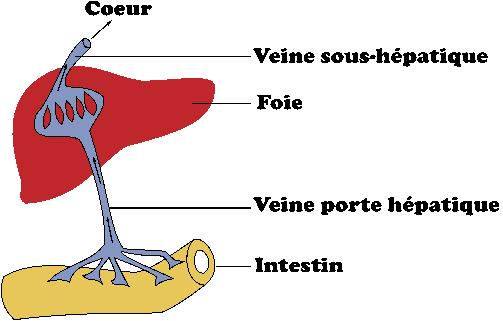
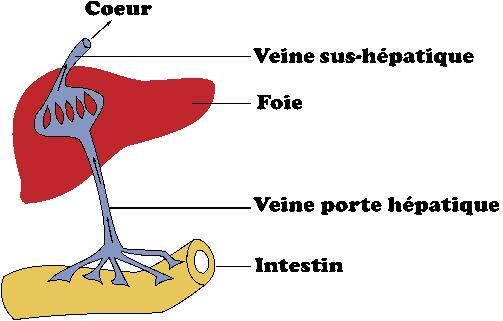
update content

Changed region(s): [[0.6262, 0.1558, 0.9841, 0.2181]]

diff --git a/htmls/courses/level2/unit3/chapter1.html b/htmls/courses/level2/unit3/chapter1.html
@@ -183,14 +183,14 @@
 </p>
 <ul>
   <li>
-    On observe qu’après une période de jeune, la glycémie du sang entrant au
+    On observe qu’après une période de jeûne, la glycémie du sang entrant au
     foie est inférieure à celle du sang sortant du foie. Alors qu’après un
     repas, la glycémie du sang entrant est supérieure à celle du sang sortant du
     foie.
   </li>
   <li>
     Ces résultats montrent que le foie apporte du glucose au sang lorsque la
-    glycémie baisse (cas du jeun), et il le met en réserve après un repas.
+    glycémie baisse (cas du jeûne), et il le met en réserve après un repas.
   </li>
 </ul>
 <p>&nbsp;</p>
@@ -241,7 +241,7 @@
 </h3>
 <p>
   La fig 1 montre les conséquences de l’ablation du pancréas chez un animal à
-  jeun, et la fig 2 montre les résultats de la mesure de la glycémie après
+  jeûne, et la fig 2 montre les résultats de la mesure de la glycémie après
   ablation suivie par une greffe externe du pancréas.&nbsp;
 </p>
 <p>
@@ -262,7 +262,7 @@
 <ul>
   <li>
     <strong>Description&nbsp;</strong>: on observe que l’ablation du pancréas
-    chez un animal à jeun cause une augmentation notable de la glycémie.
+    chez un animal à jeûne cause une augmentation notable de la glycémie.
   </li>
   <li>
     <strong>Conclusion&nbsp;</strong>: le pancréas joue un rôle essentiel dans
